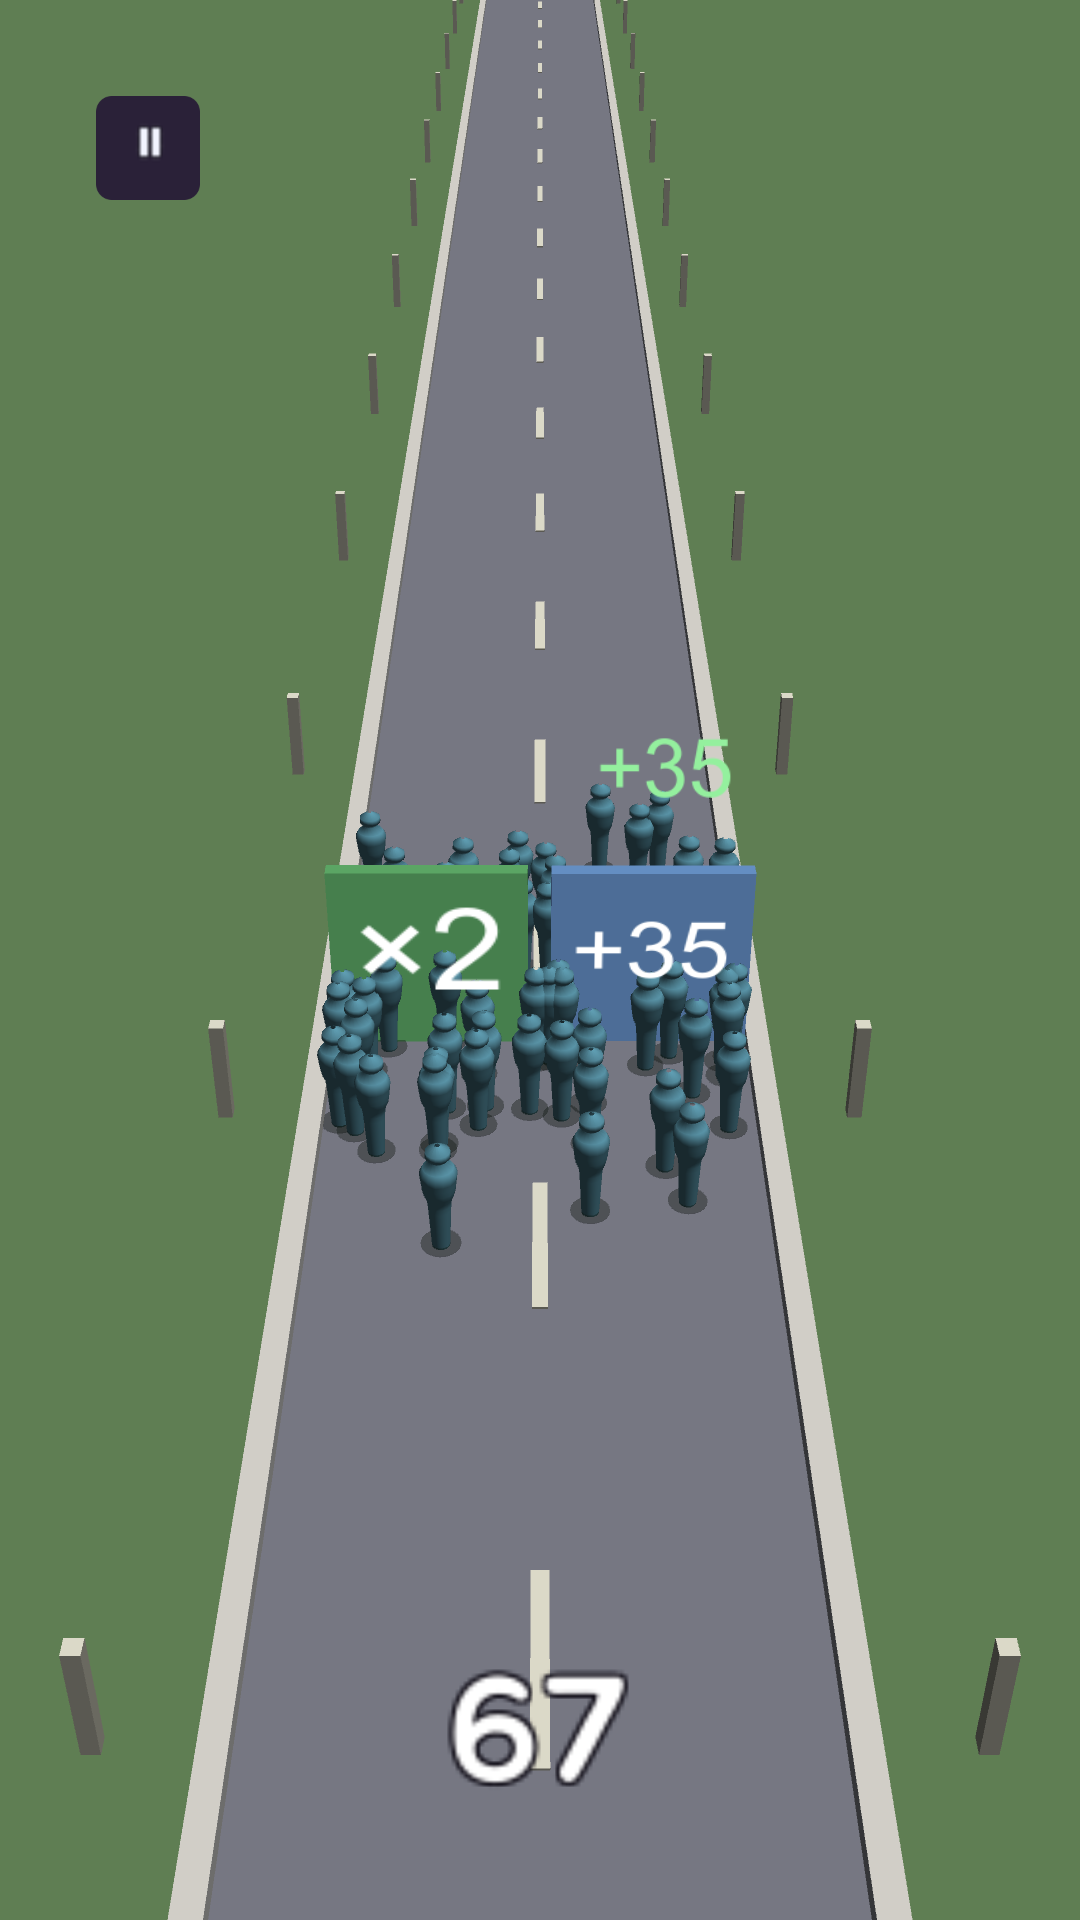
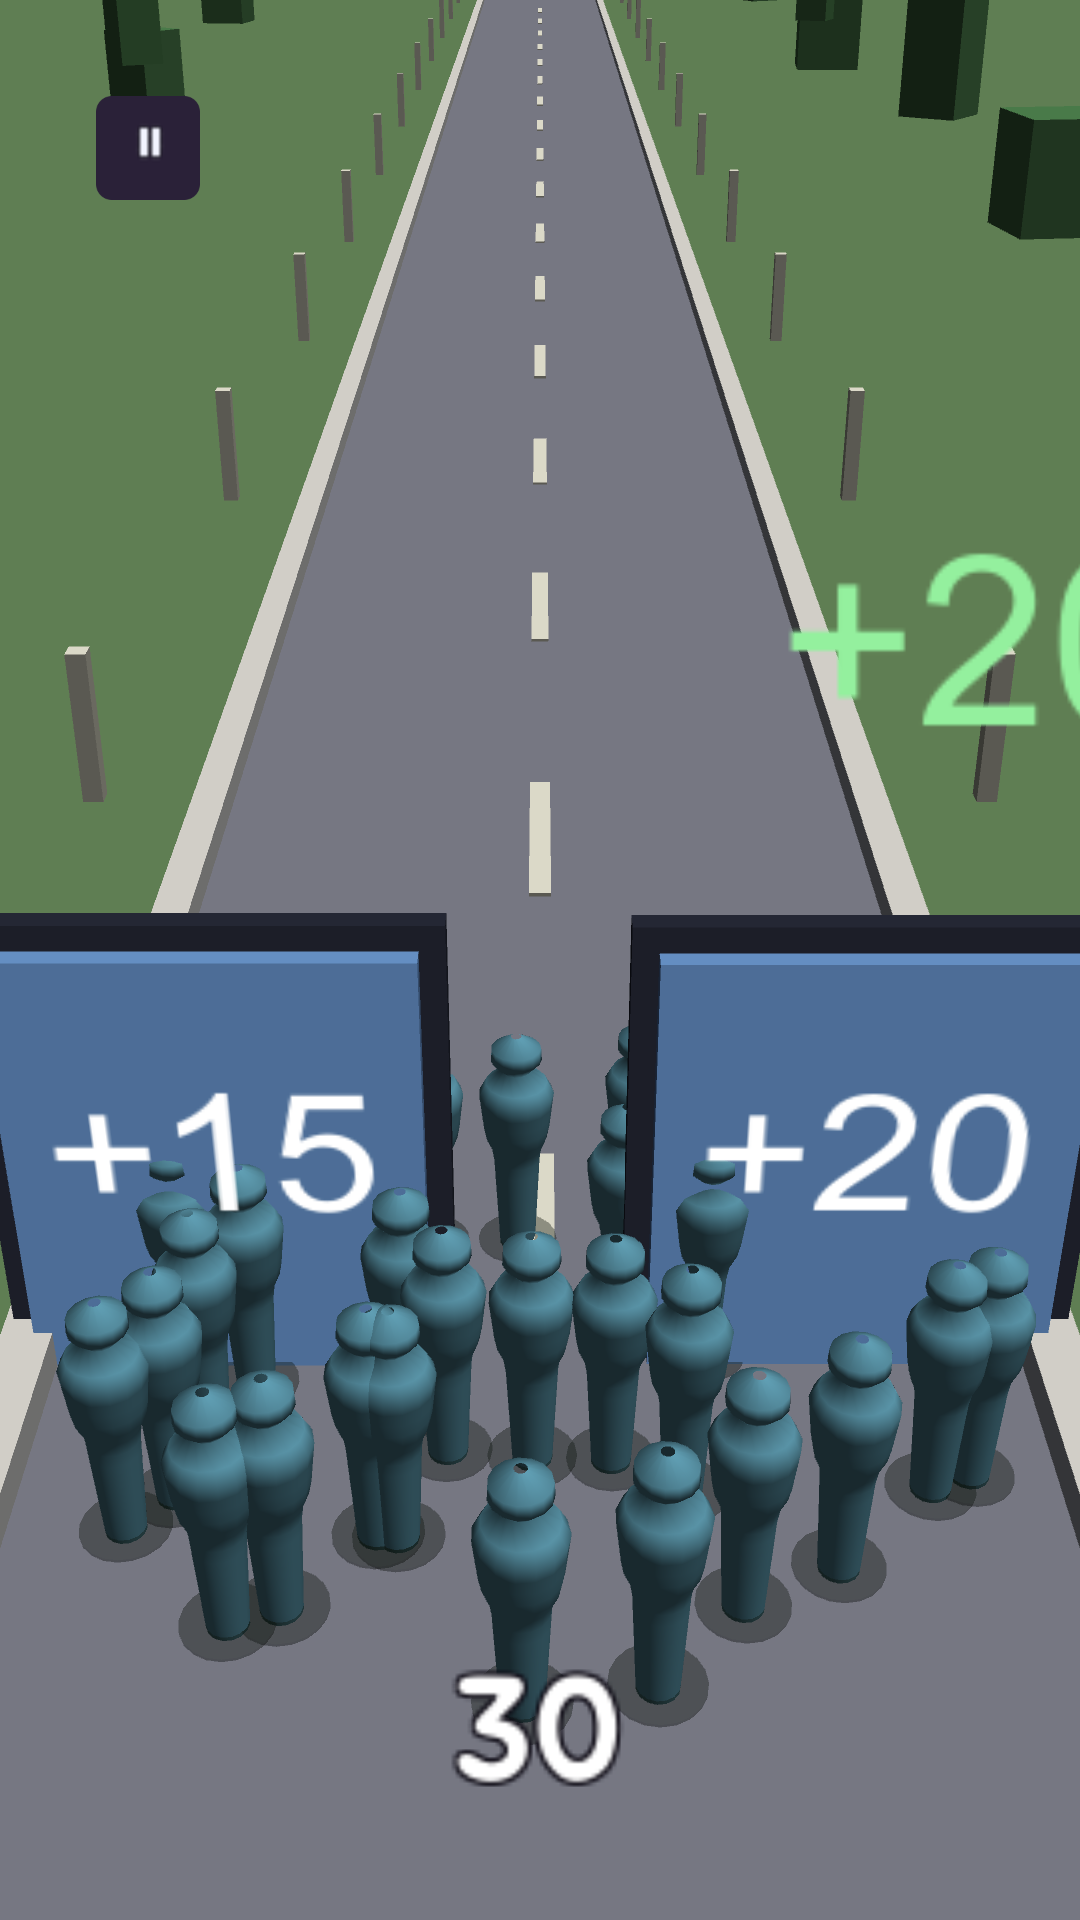
feat(view): the first screen is ten people, not sixty-seven
오너 폰 사진: 시작 지점에서 화면의 80 % 가 빈 아스팔트였고 군단이 점처럼 작았다.
"퀄리티가 심각하다".

**내가 찍은 사진이 가장 좋은 순간이었다** — 군단 67 명이 길을 채운 중반. 오너가
보는 첫 화면은 10 명이고, 그 한 장이 첫인상 전부다. 가장 좋은 순간을 찍으면
가장 좋은 순간만 안다. 그래서 시작 프레임을 따로 찍는다(`game_opening.png`).

## 넷을 고쳤다

- **카메라**: 19 m 높이 · 26 m 뒤 · 34° → 9.2 m · 10.5 m · 30°. 사람이 커지고
  군단이 화면 30 % 높이에 앉는다. 전에는 군단 아래로 빈 길이 40 % 였다
- **대형**: 몇 명이든 길 폭(6.4 m)에 흩었다 — 10 명이면 사이가 2 m 씩 벌어져
  **떼가 아니라 흩어진 점**이다. `sqrt(n)` 에 비례시킨다(사람은 면적을 차지하므로
  폭은 수의 제곱근으로 자란다): 10 명 3.6 m · 40 명이면 길을 꽉 채운다
- **게이트**: 틈이 0.35 m 뿐이라 멀리서 **간판 하나**로 보였다. 이 게임의 조작이
  *둘 중 하나* 인데 둘로 안 보이면 조작이 화면에서 사라진 것이다. 사이를 벌리고
  어두운 문틀을 붙인다 (문의 **자식**으로 — 따로 두면 문이 터진 자리에 틀만 남는다)
- **배경**: 길 밖이 초록 허공이었다. 길가에 나무를 세운다. 처음엔 5.5 m 에 6 m
  높이로 뒀더니 화면 위에서 잘린 검은 덩어리가 되어 일시정지 단추까지 덮었다 —
  배경은 배경으로 읽혀야지 앞에 나서면 안 된다. 8.5~14.5 m 밖으로 밀고 낮췄다

5/5 통과 · 웹 빌드 10 MB

diff --git a/Assets/_Game/Scripts/Game/LevelView.cs b/Assets/_Game/Scripts/Game/LevelView.cs
@@ -52,6 +52,7 @@ namespace CrowdRunner.View
         UnityEngine.UI.Text countUi;
         CasualtyFx fx;
         RoadMarks marks;
+        float spreadNow = -1f;
         BlobShadows shadows;
         Camera cam;
         float wallHp0;
@@ -87,7 +88,9 @@ namespace CrowdRunner.View
             }
             // 세로형 러너 — 뒤에서 내려다본다. 각도가 **겹쳐 그리기**를 정하므로 (§6b 마지막 경고)
             // 더 눕히면 군중이 화면에 더 넓게 퍼져 GPU 가 싸진다. 지금은 보이는 쪽을 먼저 맞춘다
-            cam.transform.rotation = Quaternion.Euler(34f, 0f, 0f);
+            // 34° 였는데 군단이 화면 **중간**에 앉고 그 아래가 빈 아스팔트였다. 조금 세우면
+            // (= 숙이는 각을 줄이면) 화면의 것들이 전부 아래로 내려오고, 앞쪽이 더 보인다
+            cam.transform.rotation = Quaternion.Euler(30f, 0f, 0f);
             cam.fieldOfView = 52f;
             cam.farClipPlane = 300f;
             cam.clearFlags = CameraClearFlags.SolidColor;
@@ -262,7 +265,12 @@ namespace CrowdRunner.View
                 countUi.color = sim.State == SimState.Lost ? new Color(0.92f, 0.46f, 0.44f) : Color.white;
             }
 
-            cam.transform.position = new Vector3(0f, 19f, sim.Z - 26f);
+            // **당긴다.** 19 m 높이 · 26 m 뒤였는데, 시작 지점(10 명)에서 화면의 80 % 가
+            // 빈 아스팔트였다 — 군단이 점처럼 작고 길이 화면을 지배했다. 1.5 배 가까이
+            // 오면 사람이 1.5 배 커지고 길이 차지하는 비율이 줄어든다.
+            //
+            // 각도는 그대로 34°다. 각도를 눕히면 겹쳐 그리기가 늘어 GPU 가 비싸진다 (§6b)
+            cam.transform.position = new Vector3(0f, 9.2f, sim.Z - 10.5f);
         }
 
         /// <summary>
@@ -384,18 +392,28 @@ namespace CrowdRunner.View
         void Formation(CrowdField f, int n, float cx, float cz, float w, byte side)
         {
             n = Mathf.Min(n, renderCap);
-            if (f.Count != n)
+            // **머릿수에 맞춰 뭉친다.** 전에는 몇 명이든 길 폭(6.4 m)에 흩었다 — 10 명이면
+            // 사람 사이가 2 m 씩 벌어져 **떼가 아니라 흩어진 점**으로 보인다. 시작 지점이
+            // 늘 그 모양이었고, 그게 *"퀄리티가 심각하다"* 의 절반이었다.
+            //
+            // `sqrt(n)` 에 비례시키는 이유: 사람이 **면적**을 차지하므로 폭은 수의 제곱근으로
+            // 자란다. 10 명 → 3.6 m · 40 명 → 7.2 m(길 폭에서 잘림) 으로, 적을 때 뭉치고
+            // 많을 때 길을 꽉 채운다
+            float spread = Mathf.Min(w * 0.92f, 1.15f * Mathf.Sqrt(Mathf.Max(1, n)));
+            if (f.Count != n || Mathf.Abs(spreadNow - spread) > 0.25f)
             {
                 f.Clear();
-                f.Add(n, side, 0f, w * 0.92f);
+                f.Add(n, side, 0f, spread);
+                spreadNow = spread;
             }
+            float depth = Mathf.Min(8.5f, 0.95f * Mathf.Sqrt(Mathf.Max(1, n)));
             // 중심을 옮긴다 — 개체마다의 흩어짐은 `CrowdField` 가 만든 것을 그대로 쓴다
             for (int i = 0; i < f.Count; i++)
             {
                 f.X[i] = cx + f.SideTarget[i];
                 // **떼는 깊이가 있어야 떼다.** 3.2 m 로는 한 줄로 서 있고, 그러면 42 명이
                 // 42 명으로 안 읽힌다 (앞줄만 보인다). 뒤로 늘리면 수가 눈에 쌓인다
-                f.Z[i] = cz + (f.Phase[i] - 0.5f) * 8.5f + (f.SpeedMul[i] - 1f) * 18f;
+                f.Z[i] = cz + (f.Phase[i] - 0.5f) * depth + (f.SpeedMul[i] - 1f) * depth * 2.1f;
                 f.Phase[i] += Time.deltaTime * 1.4f;
                 if (f.Phase[i] >= 1f) f.Phase[i] -= 1f;
             }
@@ -412,9 +430,24 @@ namespace CrowdRunner.View
             // 지나가는 표지판처럼 보였다 — 첫 연출 사진에서 그게 그대로 드러났다. 차선 폭을
             // 거의 채우고 사람 키보다 높게 두면 **통과한다**는 것이 모양만으로 읽힌다
             float lane = (runner.Level != null ? runner.Level.roadWidth : 8f) * 0.5f;
+            // **둘 사이를 벌린다.** 전에는 폭 0.90 · 중심 0.50 이라 틈이 0.35 m 뿐이었고,
+            // 멀리서 보면 **두 문이 아니라 간판 하나**로 읽혔다 (오너 폰 사진). 이 게임의
+            // 조작이 *둘 중 하나* 라서, 둘로 안 보이면 조작이 화면에서 사라진 것이다
             var t = Box("Gate", col);
-            t.localScale = new Vector3(lane * 0.90f, 3.2f, 0.25f);
-            t.position = new Vector3(o.lane * lane * 0.5f, 1.6f, z);
+            t.localScale = new Vector3(lane * 0.78f, 3.2f, 0.25f);
+            t.position = new Vector3(o.lane * lane * 0.60f, 1.6f, z);
+            // **테두리.** 색판만 있으면 공중에 뜬 종이로 보인다. 뒤에 조금 큰 어두운 판을
+            // 깔면 가장자리가 생겨 *문틀* 로 읽힌다 — 드로우 하나 값이다
+            //
+            // **문의 자식으로 붙인다.** 따로 두면 `gates[]` 가 모르니 지나간 뒤에도 남고,
+            // 연출(`GatePassFx`)이 문을 터뜨려도 테두리만 제자리에 서 있다 — 문이 사라진
+            // 자리에 틀만 남는 그림이다
+            var frame = Box("GateFrame", new Color(0.16f, 0.17f, 0.22f));
+            frame.SetParent(t, false);
+            frame.localScale = new Vector3(1f + 0.34f / t.localScale.x,
+                                           1f + 0.30f / t.localScale.y,
+                                           0.16f / t.localScale.z);
+            frame.localPosition = new Vector3(0f, 0.01f, 0.4f);
             var lab = Label("GateText", 0.34f);
             lab.transform.SetParent(t, false);
             lab.transform.localPosition = new Vector3(0f, 0.06f, -0.6f);

diff --git a/Assets/_Game/Scripts/View/RoadMarks.cs b/Assets/_Game/Scripts/View/RoadMarks.cs
@@ -33,10 +33,11 @@ namespace CrowdRunner.View
         const float PostEvery = 11f;
 
         Mesh mesh;
-        Material mat;
-        RenderParams rp;
+        Material mat, treeMat;
+        RenderParams rp, treeRp;
         Matrix4x4[] mats = new Matrix4x4[0];
-        int count;
+        Matrix4x4[] trees = new Matrix4x4[0];
+        int count, treeCount;
 
         public int Count => count;
 
@@ -72,6 +73,21 @@ namespace CrowdRunner.View
                 };
             }
 
+            if (treeMat == null)
+            {
+                treeMat = Resources.Load<Material>("M0/roadtree");
+                if (treeMat != null)
+                    treeRp = new RenderParams(treeMat)
+                    {
+                        worldBounds = new Bounds(new Vector3(0f, 0f, length * 0.5f),
+                                                 new Vector3(240f, 30f, length + 120f)),
+                        shadowCastingMode = ShadowCastingMode.Off,
+                        receiveShadows = false,
+                        lightProbeUsage = LightProbeUsage.Off,
+                        reflectionProbeUsage = ReflectionProbeUsage.Off,
+                    };
+            }
+
             // 판 앞뒤로 조금 넘겨 깐다 — 시작 지점 뒤가 비어 있으면 **출발하는 순간** 표식이
             // 없어서 그 몇 초가 가장 안 움직이는 것처럼 보인다
             float from = -40f, to = length + 60f;
@@ -83,6 +99,7 @@ namespace CrowdRunner.View
             for (int i = 0; i < dashes; i++)
                 mats[count++] = Matrix4x4.TRS(new Vector3(0f, 0.03f, from + i * DashEvery),
                                               Quaternion.identity, new Vector3(0.22f, 0.04f, 2.6f));
+            BuildTrees(from, to, roadWidth);
             float side = roadWidth * 0.5f + 1.35f;
             for (int i = 0; i < posts / 2; i++)
             {
@@ -94,10 +111,46 @@ namespace CrowdRunner.View
             }
         }
 
+        /// <summary>
+        /// **길 밖이 허공이면 세상이 아니다.** 초록 벌판만 있으면 달리는 곳에 *바깥* 이 없고,
+        /// 그러면 길이 공중에 떠 있는 띠로 돌아간다 (땅을 깔기 전과 같은 증상이 색만 바뀐 것).
+        ///
+        /// 나무는 **기둥보다 띄엄띄엄, 더 멀리, 더 크게** 둔다. 가까이 촘촘히 두면 길을
+        /// 가리고, 기둥과 주기가 같으면 하나로 보인다 (기둥 11 m · 나무 19 m).
+        /// 드로우 **한 번** 더 — 색이 달라 같은 묶음에 못 넣는다.
+        /// </summary>
+        void BuildTrees(float from, float to, float roadWidth)
+        {
+            const float Every = 19f;
+            int rows = Mathf.Max(0, Mathf.CeilToInt((to - from) / Every));
+            if (trees.Length < rows * 2) trees = new Matrix4x4[rows * 2];
+            treeCount = 0;
+            var rng = new System.Random(4711);
+            for (int i = 0; i < rows; i++)
+            {
+                float z = from + i * Every;
+                for (int sgn = -1; sgn <= 1; sgn += 2)
+                {
+                    // 자리와 크기를 조금씩 흔든다 — 같은 간격·같은 크기면 **울타리**로 보인다
+                    // **멀리, 낮게.** 처음엔 길에서 5.5 m 에 최대 6 m 높이로 뒀더니 화면 위
+                    // 가장자리에서 **잘린 검은 덩어리**로 보였고, 일시정지 단추까지 덮었다.
+                    // 배경은 배경으로 읽혀야지 앞에 나서면 안 된다
+                    float off = roadWidth * 0.5f + 8.5f + (float)rng.NextDouble() * 6f;
+                    float h = 2.6f + (float)rng.NextDouble() * 1.8f;
+                    float wdt = 1.6f + (float)rng.NextDouble() * 1.2f;
+                    trees[treeCount++] = Matrix4x4.TRS(
+                        new Vector3(sgn * off, h * 0.5f, z + (float)rng.NextDouble() * 8f),
+                        Quaternion.Euler(0f, (float)rng.NextDouble() * 90f, 0f),
+                        new Vector3(wdt, h, wdt));
+                }
+            }
+        }
+
         public void Draw()
         {
-            if (mesh == null || count == 0) return;
-            Graphics.RenderMeshInstanced(rp, mesh, 0, mats, count);
+            if (mesh == null) return;
+            if (count > 0) Graphics.RenderMeshInstanced(rp, mesh, 0, mats, count);
+            if (treeCount > 0 && treeMat != null) Graphics.RenderMeshInstanced(treeRp, mesh, 0, trees, treeCount);
         }
     }
 }

diff --git a/Assets/Tests/PlayMode/MetaShotTests.cs b/Assets/Tests/PlayMode/MetaShotTests.cs
@@ -286,6 +286,7 @@ namespace CrowdRunner.Tests
             Time.timeScale = prev;
 
             AssertNumbersDoNotOverlapOnScreen(runner);
+            yield return ShootTheOpeningFrame();
             MeasureGateLabels(runner);
             yield return ShootTheGatePass(runner);
 
@@ -745,6 +746,29 @@ namespace CrowdRunner.Tests
                 return;
             }
             Debug.LogWarning("[CR-TEST] 선택지 둘인 게이트를 못 찾았다 — 글자 폭을 못 쟀다");
+        }
+
+        /// <summary>
+        /// **시작하는 순간을 찍는다** — 오너가 보는 첫 화면.
+        ///
+        /// 지금까지 게임 화면을 **군단이 67 명일 때** 찍었다. 그 그림은 길이 꽉 차서
+        /// 좋아 보였는데, 오너가 폰에서 본 것은 **시작 지점의 10 명**이었고 화면의 80 % 가
+        /// 빈 아스팔트였다. *"퀄리티가 심각하다"* 가 거기서 나왔다.
+        ///
+        /// **가장 좋은 순간을 찍으면 가장 좋은 순간만 안다.** 이 게임에서 사람이 가장 먼저
+        /// 보는 것은 10 명이고, 그 한 장이 첫인상 전부다. 그래서 그 프레임을 따로 찍는다.
+        /// </summary>
+        IEnumerator ShootTheOpeningFrame()
+        {
+            var lv = LevelCatalog.Find("1-1");
+            Assert.IsNotNull(lv, "1-1 을 목록에서 못 찾았다");
+            flow.StartLevel(lv);
+            yield return null;
+            yield return null;
+            var runner = GameBoot.Runner;
+            Assert.IsNotNull(runner.Sim, "1-1 을 못 띄웠다 — " + runner.Error);
+            float share = ShotWorld("game_opening", runner);
+            Debug.Log($"[CR-TEST] 시작 화면: 병력 {runner.Sim.Units} · z {runner.Sim.Z:F0} · 그려진 화소 {share:F1}%");
         }
 
         /// <summary>

diff --git a/Assets/_Game/Scripts/Editor/WebBuild.cs b/Assets/_Game/Scripts/Editor/WebBuild.cs
@@ -116,6 +116,7 @@ namespace CrowdRunner.EditorTools
                 ("Assets/_Game/Resources/Fonts/ZQFallbackGothic.ttf",   "대체 글꼴 — `·` `—` 같은 글리프가 여기로 넘어간다"),
                 ("Assets/_Game/Resources/M0/roadmark.mat",              "길 표식 — 없으면 달리는 것이 안 보인다"),
                 ("Assets/_Game/Resources/M0/blobshadow.mat",            "발밑 그림자 — 없으면 군중이 떠 보인다"),
+                ("Assets/_Game/Resources/M0/roadtree.mat",              "길가 나무 — 없으면 길 밖이 초록 허공이다"),
             };
             bool bad = false;
             foreach (var (path, what) in must)

diff --git a/Assets/_Game/Scripts/Editor/M0Assets.cs b/Assets/_Game/Scripts/Editor/M0Assets.cs
@@ -92,6 +92,7 @@ namespace CrowdRunner.EditorTools
             }
             Save(sh, "roadmark", new Color(0.90f, 0.89f, 0.82f, 1.00f));
             Save(sh, "blobshadow", new Color(0.05f, 0.08f, 0.05f, 0.38f));
+            Save(sh, "roadtree", new Color(0.30f, 0.50f, 0.30f, 1.00f));
         }
 
         static void Save(Shader sh, string name, Color c)
